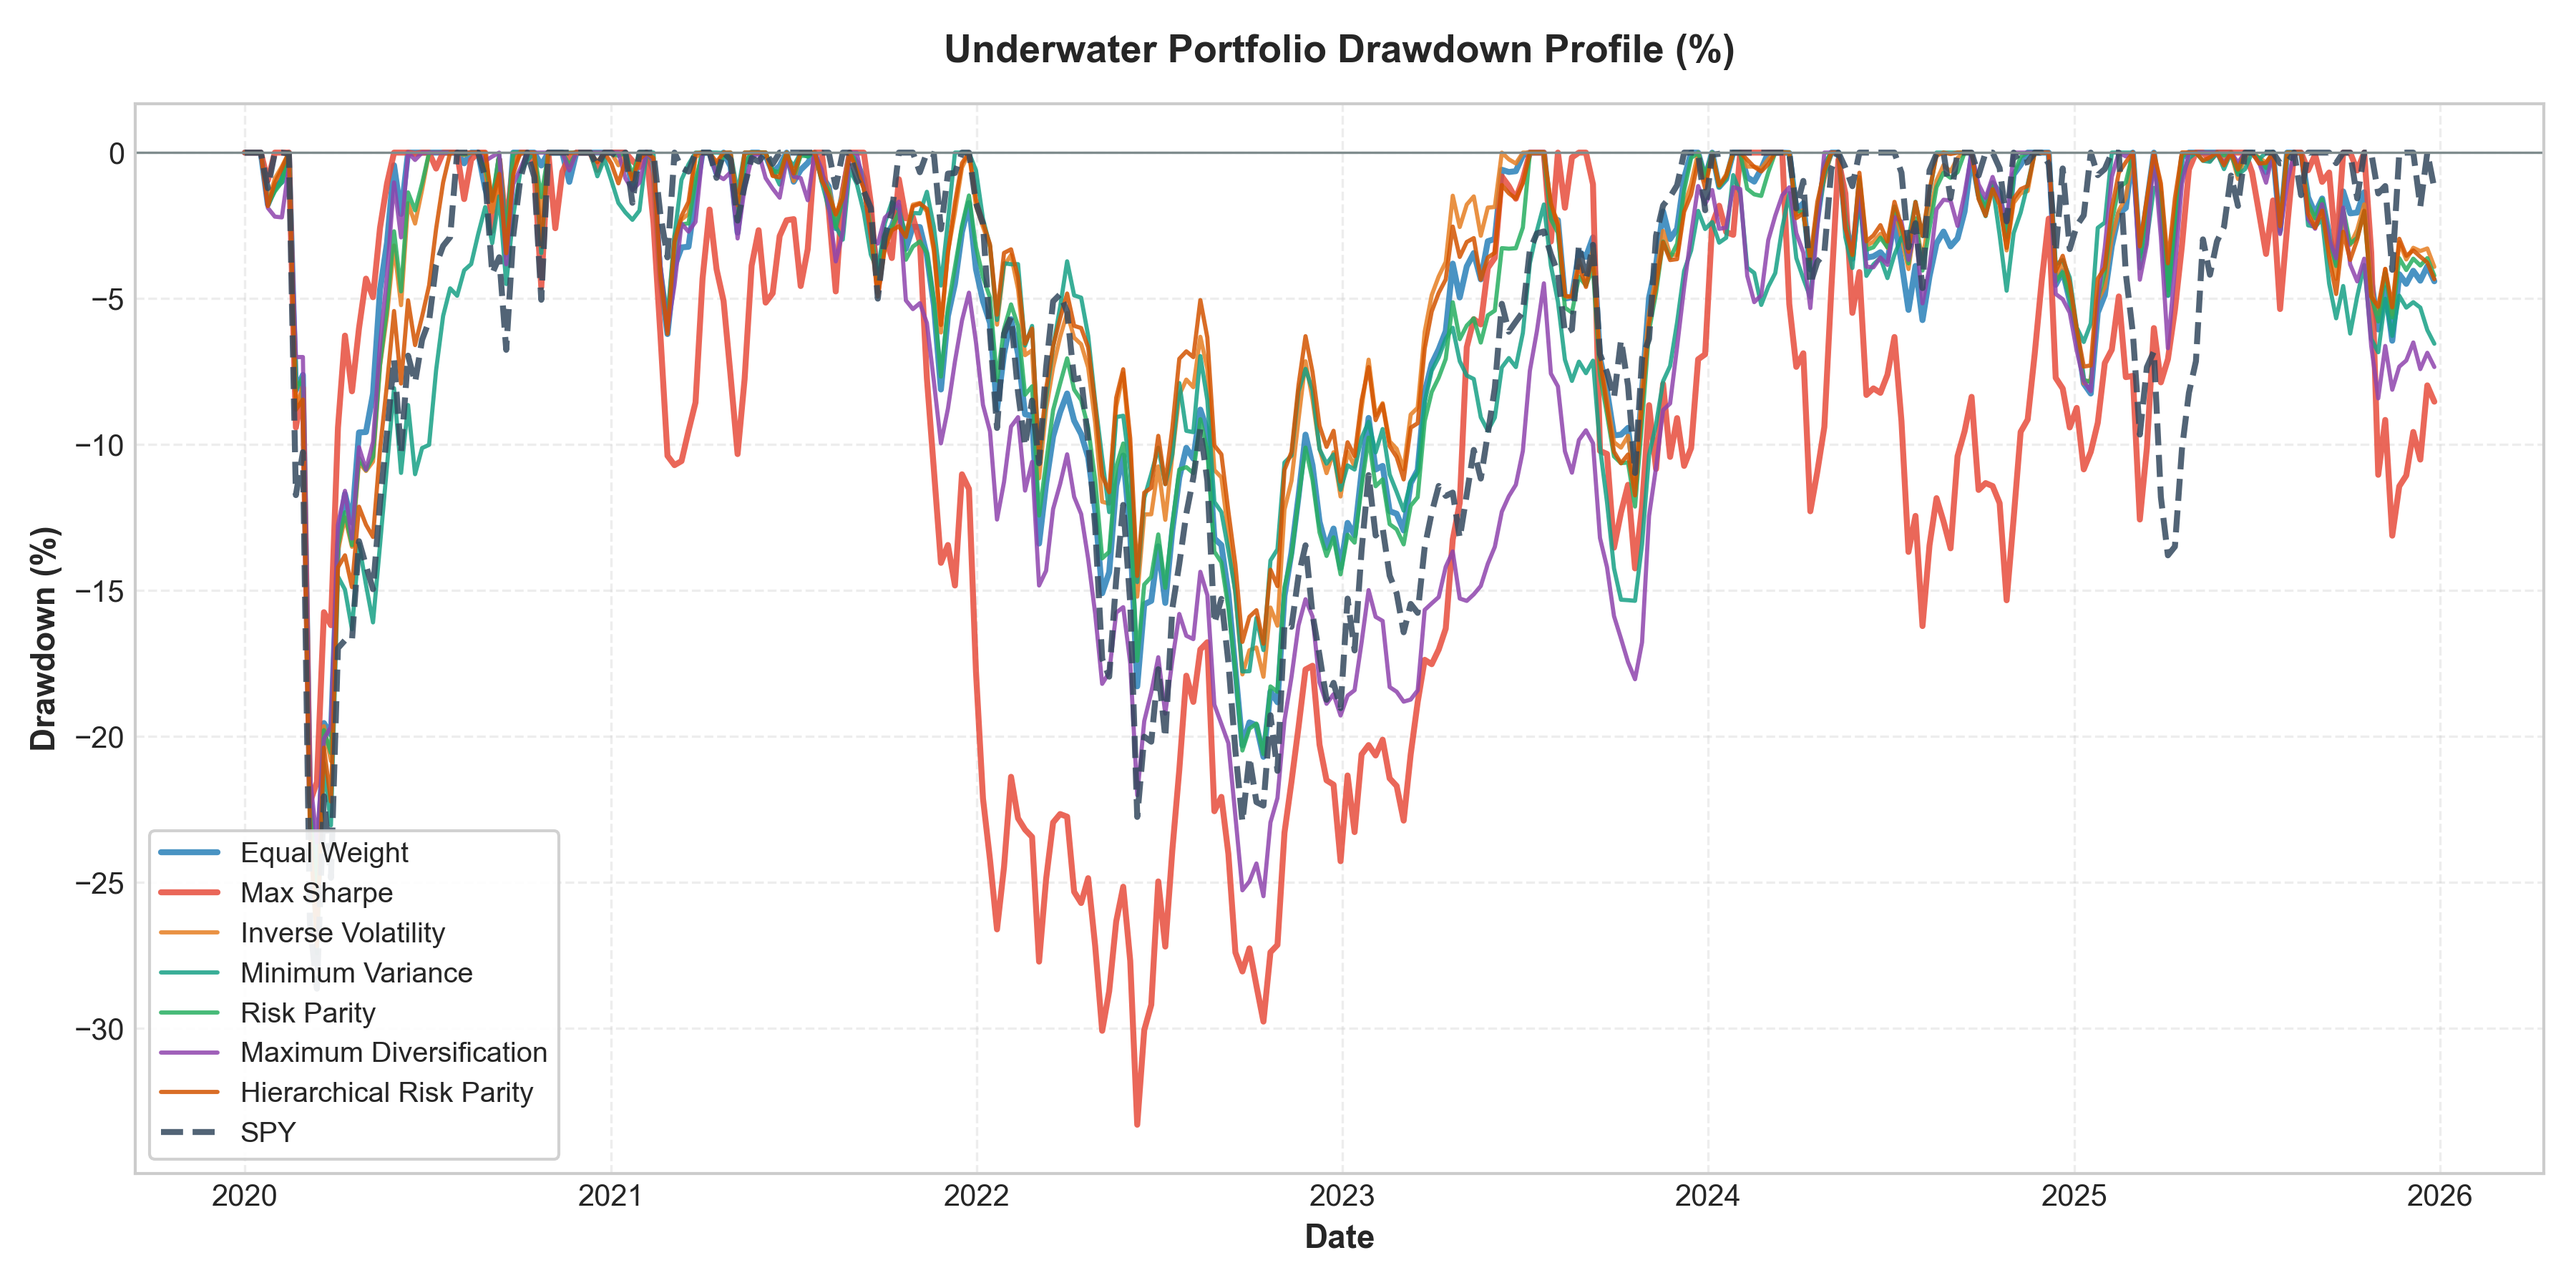
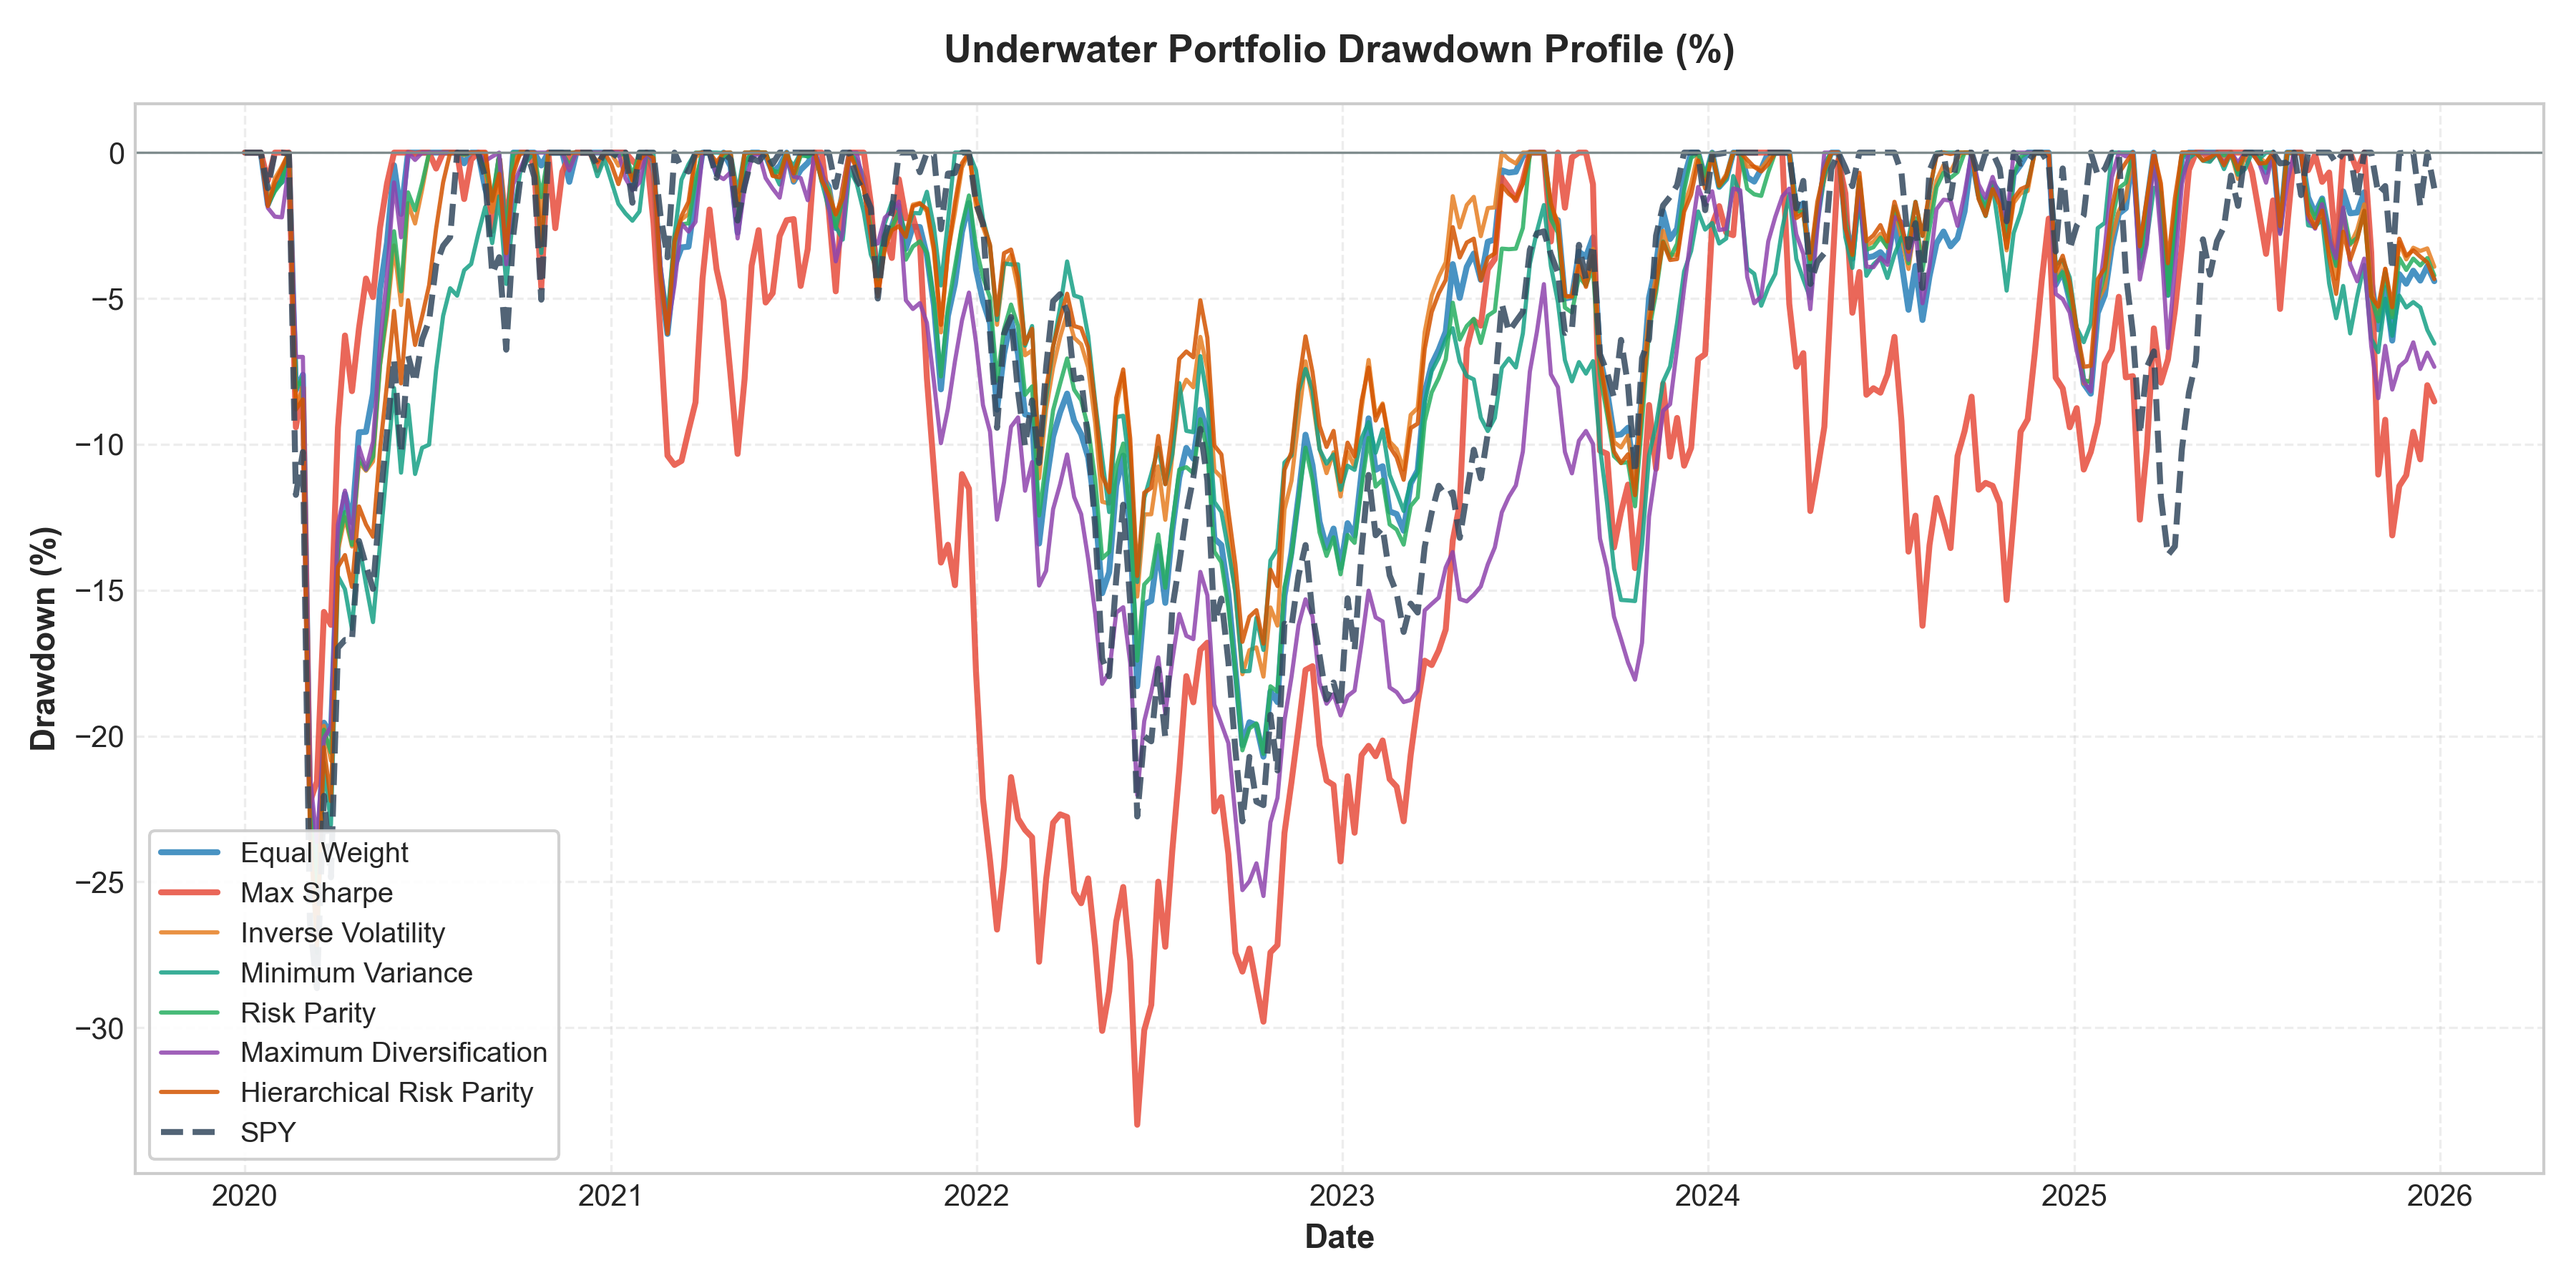
Added new metrcis like beta, alpha, tracking error and information ratio

diff --git a/reporting/metrics.py b/reporting/metrics.py
@@ -75,9 +75,7 @@ def calculate_drawdown(values: pd.Series) -> pd.Series:
 
 def calculate_max_drawdown(values: pd.Series) -> float:
     """Peak-to-trough maximum drawdown (negative float)."""
-    if values.empty:
-        return np.nan
-    return float(calculate_drawdown(values).min())
+    return np.nan if values.empty else float(calculate_drawdown(values).min())
 
 
 def calculate_calmar_ratio(values: pd.Series) -> float:
@@ -86,3 +84,58 @@ def calculate_calmar_ratio(values: pd.Series) -> float:
     if max_dd == 0 or np.isnan(max_dd):
         return np.nan
     return float(calculate_cagr(values) / max_dd)
+
+
+def calculate_beta(returns: pd.Series, benchmark_returns: pd.Series) -> float:
+    """Calculate portfolio Beta against the benchmark"""
+    aligned = pd.concat([returns, benchmark_returns], axis=1).dropna()
+    if aligned.empty or len(aligned) < 2:
+        return np.nan
+    cov = np.cov(aligned.iloc[:, 0], aligned.iloc[:, 1])
+    bench_var = np.var(aligned.iloc[:, 1], ddof=1)
+    if bench_var == 0 or np.isnan(bench_var):
+        return np.nan
+    return float(cov[0, 1] / bench_var)
+
+
+def calculate_alpha(
+    returns: pd.Series,
+    benchmark_returns: pd.Series,
+    risk_free_rate: float = RISK_FREE_RATE,
+    periods_per_year: int = WEEKS_PER_YEAR,
+) -> float:
+    """Annualized Jensen's Alpha: (R_p - R_f) - Beta * (R_b - R_f)."""
+    aligned = pd.concat([returns, benchmark_returns], axis=1).dropna()
+    if aligned.empty or len(aligned) < 2:
+        return np.nan
+    beta = calculate_beta(aligned.iloc[:, 0], aligned.iloc[:, 1])
+    if np.isnan(beta):
+        return np.nan
+    r_p = aligned.iloc[:, 0].mean() * periods_per_year
+    r_b = aligned.iloc[:, 1].mean() * periods_per_year
+    return float((r_p - risk_free_rate) - beta * (r_b - risk_free_rate))
+
+
+def calculate_tracking_error(
+    returns: pd.Series, benchmark_returns: pd.Series, periods_per_year: int = WEEKS_PER_YEAR
+) -> float:
+    """Annualized Tracking Error: StdDev(R_p - R_b) * sqrt(periods)."""
+    aligned = pd.concat([returns, benchmark_returns], axis=1).dropna()
+    if aligned.empty or len(aligned) < 2:
+        return np.nan
+    diff = aligned.iloc[:, 0] - aligned.iloc[:, 1]
+    return float(diff.std() * np.sqrt(periods_per_year))
+
+
+def calculate_information_ratio(
+    returns: pd.Series, benchmark_returns: pd.Series, periods_per_year: int = WEEKS_PER_YEAR
+) -> float:
+    """Information Ratio: Annualized Excess Return / Annualized Tracking Error."""
+    aligned = pd.concat([returns, benchmark_returns], axis=1).dropna()
+    if aligned.empty or len(aligned) < 2:
+        return np.nan
+    te = calculate_tracking_error(aligned.iloc[:, 0], aligned.iloc[:, 1], periods_per_year)
+    if te == 0 or np.isnan(te):
+        return np.nan
+    excess_return = (aligned.iloc[:, 0].mean() - aligned.iloc[:, 1].mean()) * periods_per_year
+    return float(excess_return / te)

diff --git a/reporting/tables.py b/reporting/tables.py
@@ -2,16 +2,21 @@
 
 from __future__ import annotations
 
+import numpy as np
 import pandas as pd
 
 from config import RISK_FREE_RATE
 from reporting.metrics import (
+    calculate_alpha,
+    calculate_beta,
     calculate_cagr,
     calculate_calmar_ratio,
+    calculate_information_ratio,
     calculate_max_drawdown,
     calculate_sharpe_ratio,
     calculate_sortino_ratio,
     calculate_total_return,
+    calculate_tracking_error,
     calculate_volatility,
 )
 
@@ -20,14 +25,20 @@ def build_summary_table(
     returns: pd.DataFrame,
     portfolio_values: pd.DataFrame,
     risk_free_rate: float = RISK_FREE_RATE,
+    benchmark_column: str = "SPY",
 ) -> pd.DataFrame:
     """Compute comprehensive risk and return performance metrics for all strategies."""
     rows: list[dict[str, object]] = []
+    benchmark_returns = (
+        returns[benchmark_column].dropna() if benchmark_column in returns.columns else pd.Series(dtype=float)
+    )
 
     for strategy in returns.columns:
         s_returns = returns[strategy].dropna()
         s_values = (
-            portfolio_values[strategy].dropna() if strategy in portfolio_values.columns else pd.Series()
+            portfolio_values[strategy].dropna()
+            if strategy in portfolio_values.columns
+            else pd.Series(dtype=float)
         )
 
         if s_returns.empty or s_values.empty:
@@ -36,6 +47,8 @@ def build_summary_table(
         init_val = round(float(s_values.iloc[0]), 2)
         final_val = round(float(s_values.iloc[-1]), 2)
         ret_amt = round(final_val - init_val, 2)
+
+        has_benchmark = not benchmark_returns.empty and len(benchmark_returns) > 1
 
         rows.append(
             {
@@ -50,6 +63,16 @@ def build_summary_table(
                 "Sortino Ratio": calculate_sortino_ratio(s_returns, risk_free_rate),
                 "Maximum Drawdown": calculate_max_drawdown(s_values),
                 "Calmar Ratio": calculate_calmar_ratio(s_values),
+                "Beta": calculate_beta(s_returns, benchmark_returns) if has_benchmark else np.nan,
+                "Alpha": (
+                    calculate_alpha(s_returns, benchmark_returns, risk_free_rate) if has_benchmark else np.nan
+                ),
+                "Tracking Error": (
+                    calculate_tracking_error(s_returns, benchmark_returns) if has_benchmark else np.nan
+                ),
+                "Information Ratio": (
+                    calculate_information_ratio(s_returns, benchmark_returns) if has_benchmark else np.nan
+                ),
             }
         )
 

diff --git a/tests/test_metrics.py b/tests/test_metrics.py
@@ -6,13 +6,17 @@ import numpy as np
 import pandas as pd
 
 from reporting.metrics import (
+    calculate_alpha,
+    calculate_beta,
     calculate_cagr,
     calculate_calmar_ratio,
     calculate_drawdown,
+    calculate_information_ratio,
     calculate_max_drawdown,
     calculate_sharpe_ratio,
     calculate_sortino_ratio,
     calculate_total_return,
+    calculate_tracking_error,
     calculate_volatility,
 )
 
@@ -60,3 +64,30 @@ def test_volatility_and_sharpe():
     sortino = calculate_sortino_ratio(rets, risk_free_rate=0.04, periods_per_year=52)
     assert np.isfinite(sharpe)
     assert np.isfinite(sortino)
+
+
+def test_beta_alpha_and_tracking_error():
+    """Verify Beta, Alpha, Tracking Error, and Information Ratio calculations."""
+    dates = pd.date_range("2021-01-01", periods=104, freq="W-FRI")
+    np.random.seed(42)
+    bench_rets = pd.Series(np.random.normal(0.002, 0.02, 104), index=dates)
+
+    # Perfect tracking (identical portfolio)
+    beta_ident = calculate_beta(bench_rets, bench_rets)
+    alpha_ident = calculate_alpha(bench_rets, bench_rets, risk_free_rate=0.04, periods_per_year=52)
+    te_ident = calculate_tracking_error(bench_rets, bench_rets, periods_per_year=52)
+    assert np.isclose(beta_ident, 1.0)
+    assert np.isclose(alpha_ident, 0.0)
+    assert np.isclose(te_ident, 0.0)
+
+    # 2x leveraged portfolio with 1% periodic alpha
+    port_rets = 2.0 * bench_rets + 0.001
+    beta_2x = calculate_beta(port_rets, bench_rets)
+    alpha_2x = calculate_alpha(port_rets, bench_rets, risk_free_rate=0.04, periods_per_year=52)
+    te_2x = calculate_tracking_error(port_rets, bench_rets, periods_per_year=52)
+    ir_2x = calculate_information_ratio(port_rets, bench_rets, periods_per_year=52)
+
+    assert np.isclose(beta_2x, 2.0)
+    assert np.isfinite(alpha_2x)
+    assert te_2x > 0.0
+    assert np.isfinite(ir_2x)

diff --git a/reporting/interactive.py b/reporting/interactive.py
@@ -333,6 +333,19 @@ def build_summary_html_table(summary: pd.DataFrame) -> str:
 
         tot_ret_cls = ' class="positive"' if row["Total Return"] > 0 else ' class="negative"'
 
+        beta_str = f"{row['Beta']:.4f}" if "Beta" in row and pd.notna(row["Beta"]) else "&mdash;"
+        alpha_str = f"{row['Alpha']:.2%}" if "Alpha" in row and pd.notna(row["Alpha"]) else "&mdash;"
+        te_str = (
+            f"{row['Tracking Error']:.2%}"
+            if "Tracking Error" in row and pd.notna(row["Tracking Error"])
+            else "&mdash;"
+        )
+        ir_str = (
+            f"{row['Information Ratio']:.4f}"
+            if "Information Ratio" in row and pd.notna(row["Information Ratio"])
+            else "&mdash;"
+        )
+
         rows_html += f"""<tr{row_class}>
             <td>{dot}{strat}</td>
             <td>{_format_money(row["Initial Value ($)"])}</td>
@@ -344,6 +357,10 @@ def build_summary_html_table(summary: pd.DataFrame) -> str:
             <td>{_format_ratio(row["Sortino Ratio"])}</td>
             <td{dd_cls}>{_format_pct(row["Maximum Drawdown"])}</td>
             <td{calmar_cls}>{_format_ratio(row["Calmar Ratio"])}</td>
+            <td>{beta_str}</td>
+            <td>{alpha_str}</td>
+            <td>{te_str}</td>
+            <td>{ir_str}</td>
         </tr>"""
 
     table_html = f"""
@@ -363,6 +380,10 @@ def build_summary_html_table(summary: pd.DataFrame) -> str:
                     <th>Sortino</th>
                     <th>Max DD</th>
                     <th>Calmar</th>
+                    <th>Beta</th>
+                    <th>Alpha</th>
+                    <th>Tracking Err</th>
+                    <th>Info Ratio</th>
                 </tr>
             </thead>
             <tbody>

diff --git a/report.py b/report.py
@@ -57,9 +57,9 @@ def main() -> None:
         save_path=REPORT_DIR / "dashboard.html",
     )
 
-    print("\n" + "=" * 80)
+    print("\n" + "=" * 115)
     print("  PORTFOLIO PERFORMANCE SUMMARY")
-    print("=" * 80)
+    print("=" * 115)
     display_cols = [
         "Strategy",
         "Initial Value ($)",
@@ -70,6 +70,10 @@ def main() -> None:
         "Sortino Ratio",
         "Maximum Drawdown",
         "Calmar Ratio",
+        "Beta",
+        "Alpha",
+        "Tracking Error",
+        "Information Ratio",
     ]
     formatted = summary_table[display_cols].copy()
     formatted["CAGR"] = formatted["CAGR"].map(lambda x: f"{x:.2%}")
@@ -78,8 +82,16 @@ def main() -> None:
     formatted["Sharpe Ratio"] = formatted["Sharpe Ratio"].map(lambda x: f"{x:.4f}")
     formatted["Sortino Ratio"] = formatted["Sortino Ratio"].map(lambda x: f"{x:.4f}")
     formatted["Calmar Ratio"] = formatted["Calmar Ratio"].map(lambda x: f"{x:.4f}")
+    formatted["Beta"] = formatted["Beta"].map(lambda x: f"{x:.4f}" if pd.notna(x) else "N/A")
+    formatted["Alpha"] = formatted["Alpha"].map(lambda x: f"{x:.2%}" if pd.notna(x) else "N/A")
+    formatted["Tracking Error"] = formatted["Tracking Error"].map(
+        lambda x: f"{x:.2%}" if pd.notna(x) else "N/A"
+    )
+    formatted["Information Ratio"] = formatted["Information Ratio"].map(
+        lambda x: f"{x:.4f}" if pd.notna(x) else "N/A"
+    )
     print(formatted.to_string(index=False))
-    print("=" * 80)
+    print("=" * 115)
 
 
 if __name__ == "__main__":

diff --git a/reporting/__init__.py b/reporting/__init__.py
@@ -4,13 +4,17 @@ from __future__ import annotations
 
 from reporting.interactive import generate_interactive_dashboard
 from reporting.metrics import (
+    calculate_alpha,
+    calculate_beta,
     calculate_cagr,
     calculate_calmar_ratio,
     calculate_drawdown,
+    calculate_information_ratio,
     calculate_max_drawdown,
     calculate_sharpe_ratio,
     calculate_sortino_ratio,
     calculate_total_return,
+    calculate_tracking_error,
     calculate_volatility,
 )
 from reporting.plots import (
@@ -23,13 +27,17 @@ from reporting.tables import (
 
 __all__ = [
     "build_summary_table",
+    "calculate_alpha",
+    "calculate_beta",
     "calculate_cagr",
     "calculate_calmar_ratio",
     "calculate_drawdown",
+    "calculate_information_ratio",
     "calculate_max_drawdown",
     "calculate_sharpe_ratio",
     "calculate_sortino_ratio",
     "calculate_total_return",
+    "calculate_tracking_error",
     "calculate_volatility",
     "generate_interactive_dashboard",
     "plot_drawdowns",

diff --git a/backtest_engine.py b/backtest_engine.py
@@ -100,6 +100,7 @@ def apply_weights(weights: pd.Series, holding_period: pd.DataFrame) -> pd.Series
     period_returns.iloc[0] = portfolio_growth.iloc[0] - 1.0
     return period_returns
 
+
 def calculate_turnover(old_weights: pd.Series, new_weights: pd.Series) -> float:
     """One-way turnover: half the sum of absolute weight changes."""
     aligned_old = old_weights.reindex(new_weights.index, fill_value=0.0)
@@ -114,6 +115,7 @@ def calculate_drifted_weights(weights: pd.Series, holding_period: pd.DataFrame) 
     asset_growth = (1.0 + simple_returns).cumprod().iloc[-1]
     drifted_value = weights * asset_growth
     return drifted_value / drifted_value.sum()
+
 
 def build_spy_benchmark(
     spy_log_returns: pd.Series,
